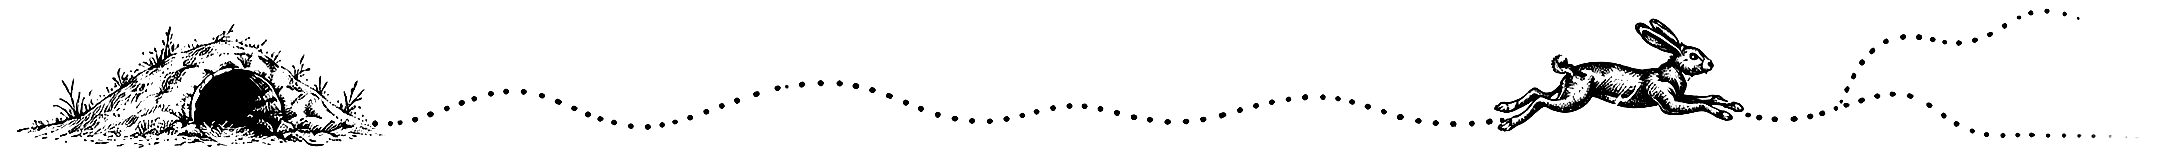
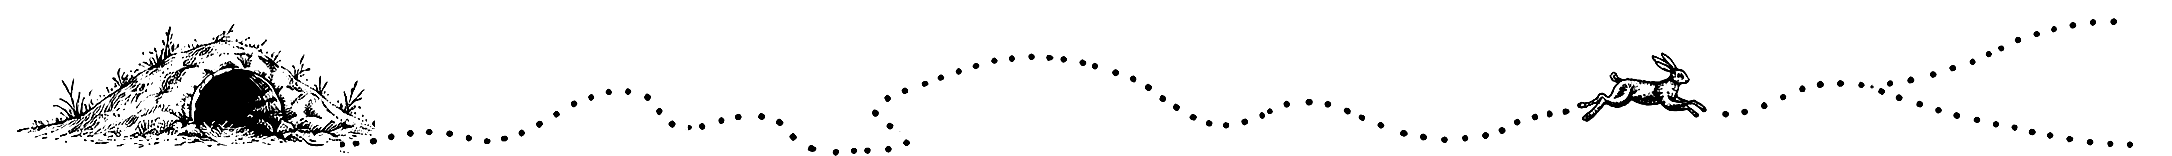
home: new rabbit-trail footer (longer trail, smaller hare, fader)
Replace about-trail.png composite: keep original brushy burrow on the
left; swap the old large rabbit + paw-print/dot trail for a smaller hare
and longer wavy dotted trail extracted from a new source. Drop band
opacity (.18→.13 light, .12→.09 dark) so the footer recedes.

diff --git a/css/style.css b/css/style.css
@@ -1122,7 +1122,7 @@ body:has(.home-trail-band) .page-home {
      (2172×156, aspect ~13.9:1), so width:100% + height:auto gives the
      band's height directly from the image's natural proportions —
      no object-fit gymnastics, no transparent padding. */
-  opacity: 0.18;
+  opacity: 0.13;
 }
 
 [data-theme="dark"] .home-trail-band img {
@@ -1130,7 +1130,7 @@ body:has(.home-trail-band) .page-home {
      now alpha-encoded (no rectangular bg), invert acts only on the
      ink pixels — no rectangle artifact. */
   filter: invert(1);
-  opacity: 0.12;
+  opacity: 0.09;
 }
 
 .site-colophon {
